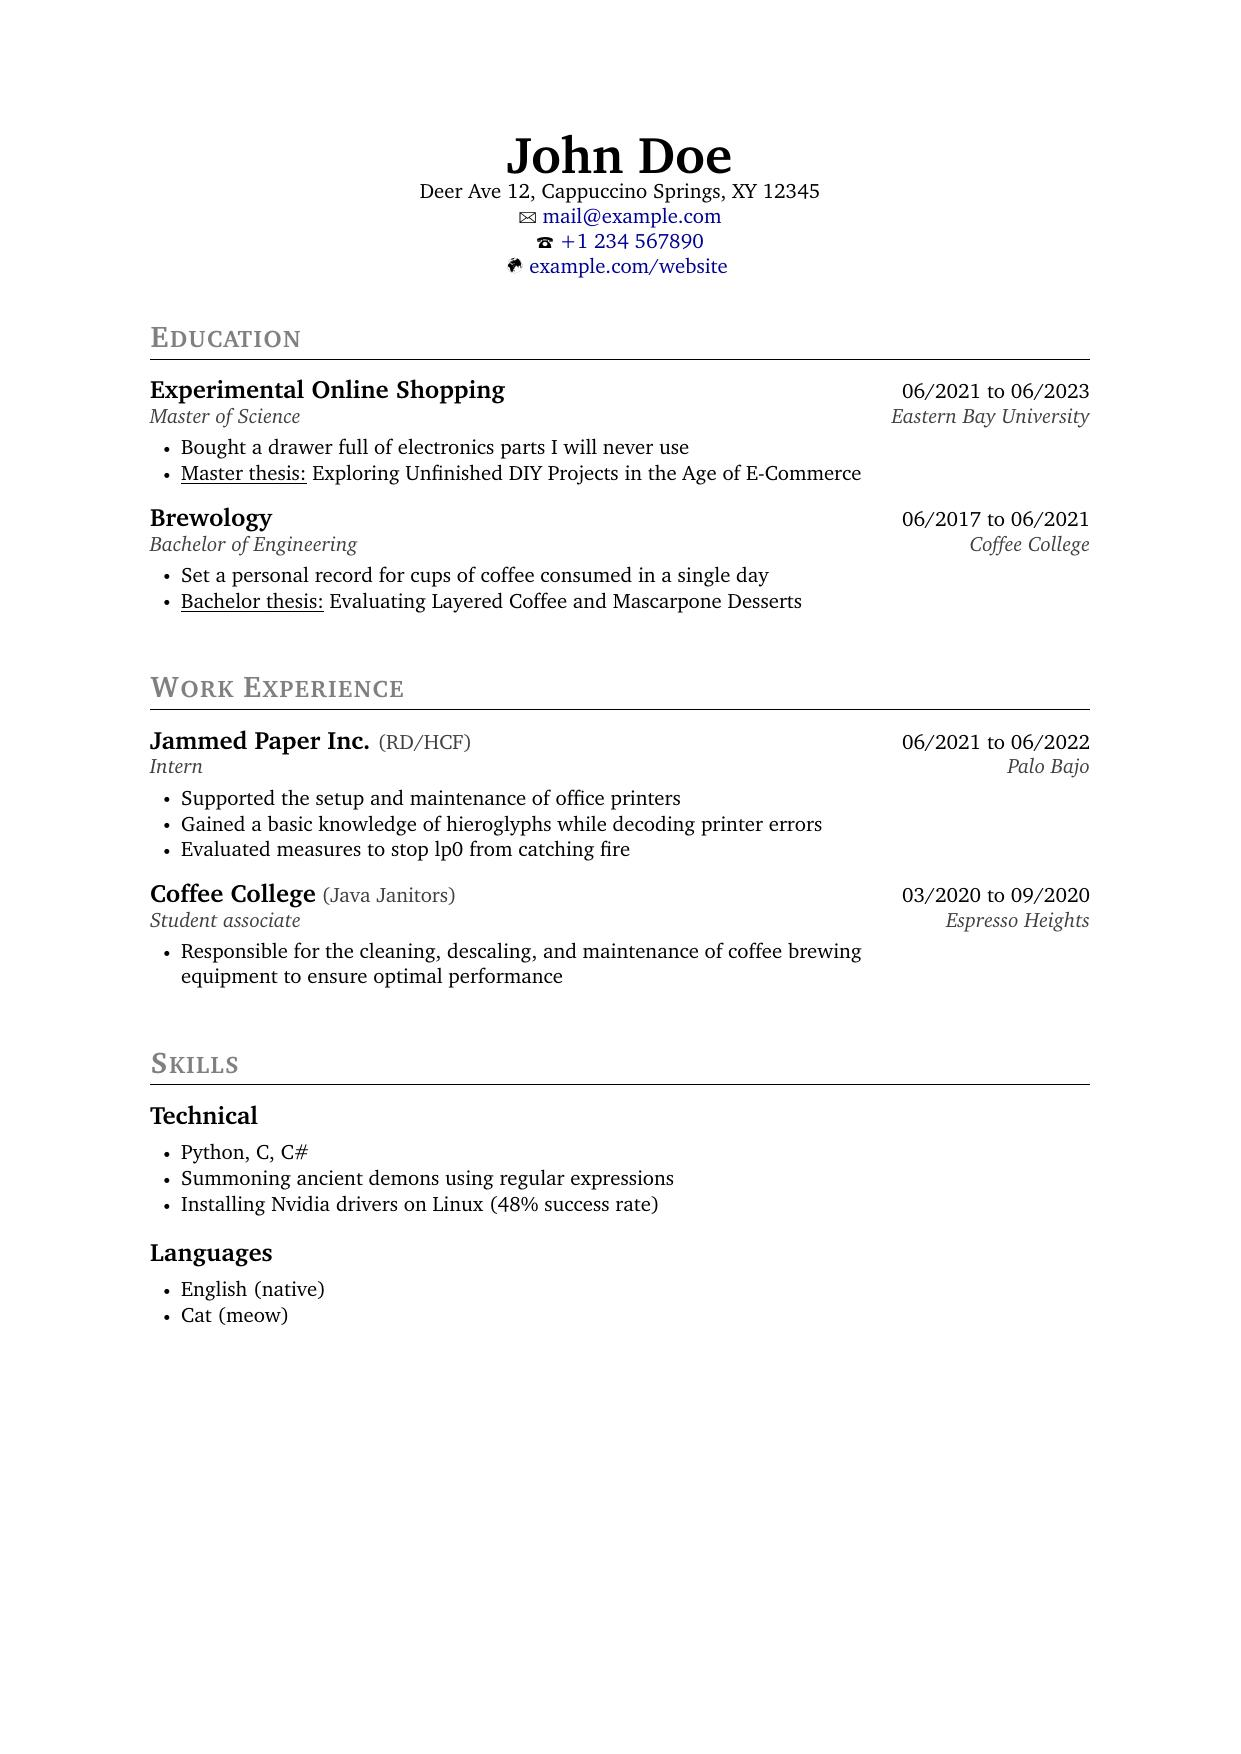
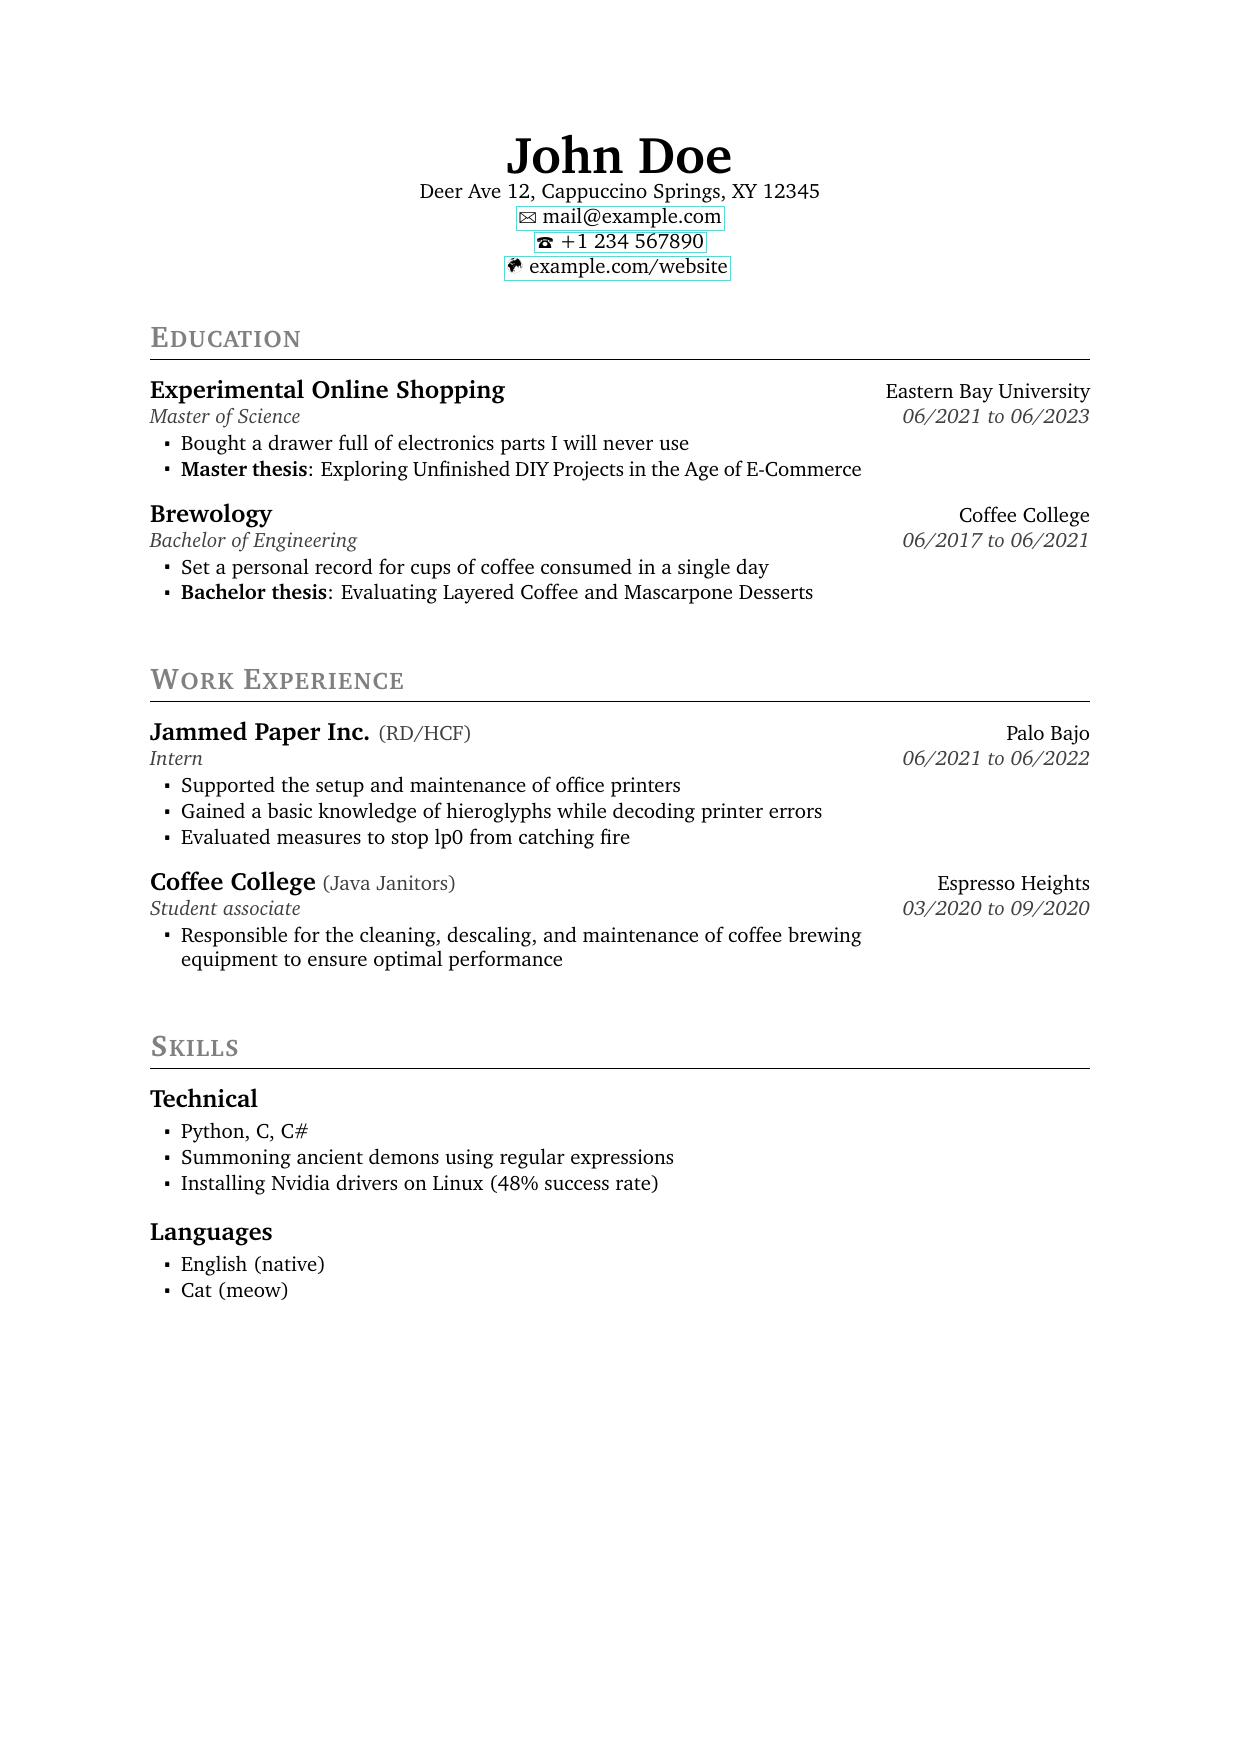
support colored frames around hyperlinks

diff --git a/data/settings.tex b/data/settings.tex
@@ -75,9 +75,11 @@
 %%% Colors used in the header %%%
 % Name at the very top
 \newcommand{\nameColor}{\defaultTextColor}
-% Hyperlinks in the header
+% Hyperlinks in the header (only if \useColoredLinks is "true", see below)
 \definecolor{DarkBlue}{RGB}{0,0,148}
 \newcommand{\urlColor}{DarkBlue}
+% Frames displayed around hyperlinks (only if \useColoredLinks is "false", see below)
+\newcommand{\urlFrameColor}{cyan}
 % Symbols (envelope etc.) next to the hyperlinks
 \newcommand{\headerSymbolColor}{\defaultTextColor}
 
@@ -94,3 +96,30 @@
 %%% Line colors %%%
 % Lines below the main titles
 \newcommand{\titleLineColor}{black}
+
+
+%%%%%%%%%%%%%%%%%%%%%%%%%%%%%
+%%%%% URL configuration %%%%%
+%%%%%%%%%%%%%%%%%%%%%%%%%%%%%
+%%%%% URLs can be visually distinguished from normal text in one of two ways:
+%%%%%
+%%%%% - URLs use colored text. This ensures a consistent presentation when
+%%%%%   the file is digitally viewed, but can lead to reduced print quality if the
+%%%%%   file is printed with a black-and-white printer.
+%%%%% - URLs use black text, with a colored frame that is only visible when the
+%%%%%   file is viewed digitally. This ensures optimal print quality, while
+%%%%%   highlighting the URLs only when they can actually be clicked. However, the
+%%%%%   colored frames may look unappealing compared to colored text.
+%%%%%
+%%%%% For more information, see:
+%%%%% https://en.wikibooks.org/wiki/LaTeX/Hyperlinks#Customization
+%%%%%
+
+%% Style used to display hyperlinks
+% Set to "true" to make hyperlinks use colored text.
+% Set to "false" to display frames around hyperlinks instead.
+\newcommand{\useColoredLinks}{false}
+% Width of the frames around hyperlinks
+\newcommand{\urlFrameWidth}{0.1}
+% Margin of the frames around hyperlinks
+\newcommand{\urlFrameMargin}{0.1em}

diff --git a/data/sections.tex b/data/sections.tex
@@ -14,12 +14,12 @@
 \begin{resumeList}  {Experimental Online Shopping}{}    {Eastern Bay University}
                     {Master of Science}                 {06/2021 to 06/2023}
     \item Bought a drawer full of electronics parts I will never use
-    \item \underline{Master thesis:} Exploring Unfinished DIY Projects in the Age of E-Commerce
+    \item \textbf{Master thesis}: Exploring Unfinished DIY Projects in the Age of E-Commerce
 \end{resumeList}
 \begin{resumeList}  {Brewology}{}                {Coffee College}
                     {Bachelor of Engineering}    {06/2017 to 06/2021}
     \item Set a personal record for cups of coffee consumed in a single day
-    \item \underline{Bachelor thesis:} Evaluating Layered Coffee and Mascarpone Desserts
+    \item \textbf{Bachelor thesis}: Evaluating Layered Coffee and Mascarpone Desserts
 \end{resumeList}
 
 

diff --git a/resume.tex b/resume.tex
@@ -28,9 +28,14 @@
 
 % Formatting of hyperlinks
 \hypersetup{
-	colorlinks=true,
+	% Set colorlinks=false to display colored boxes around links instead.
+	colorlinks=\useColoredLinks,
 	linkcolor=\urlColor,
+	linkbordercolor=\urlFrameColor,
 	urlcolor=\urlColor,
+	urlbordercolor=\urlFrameColor,
+	pdfborder={1 1 \urlFrameWidth},
+	pdflinkmargin=\urlFrameMargin,
 	pdfpagemode=FullScreen,
 }
 
